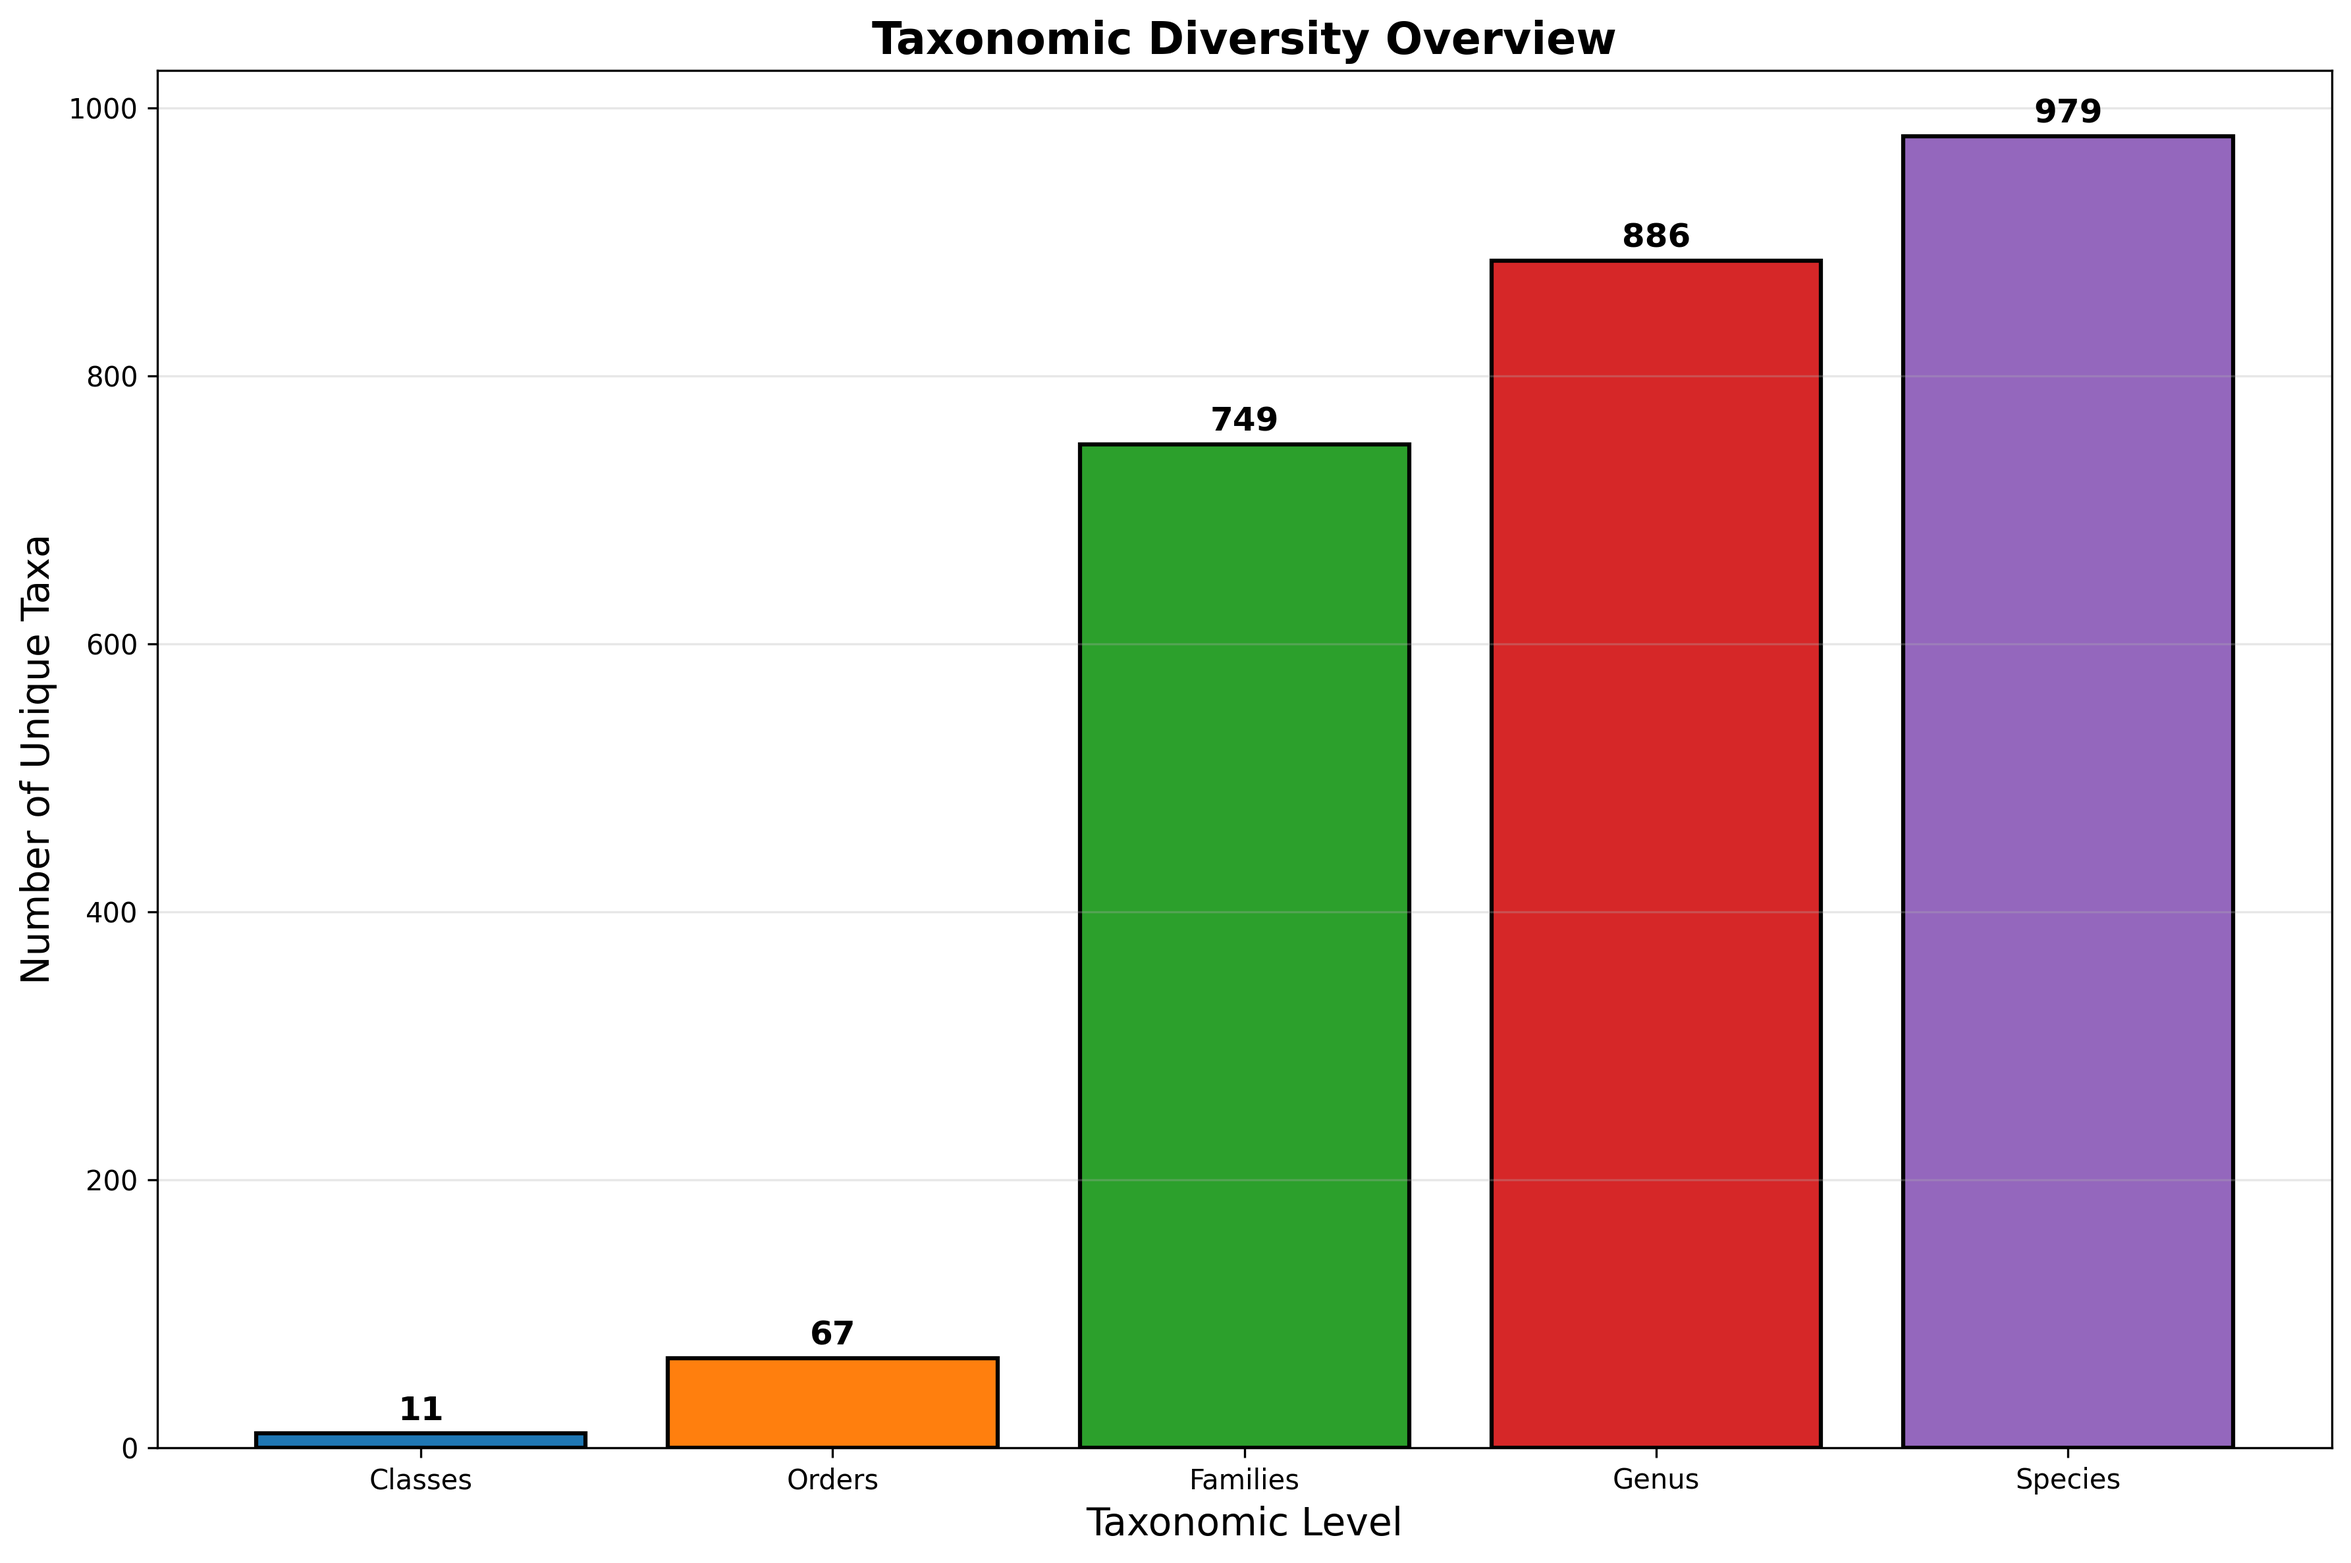
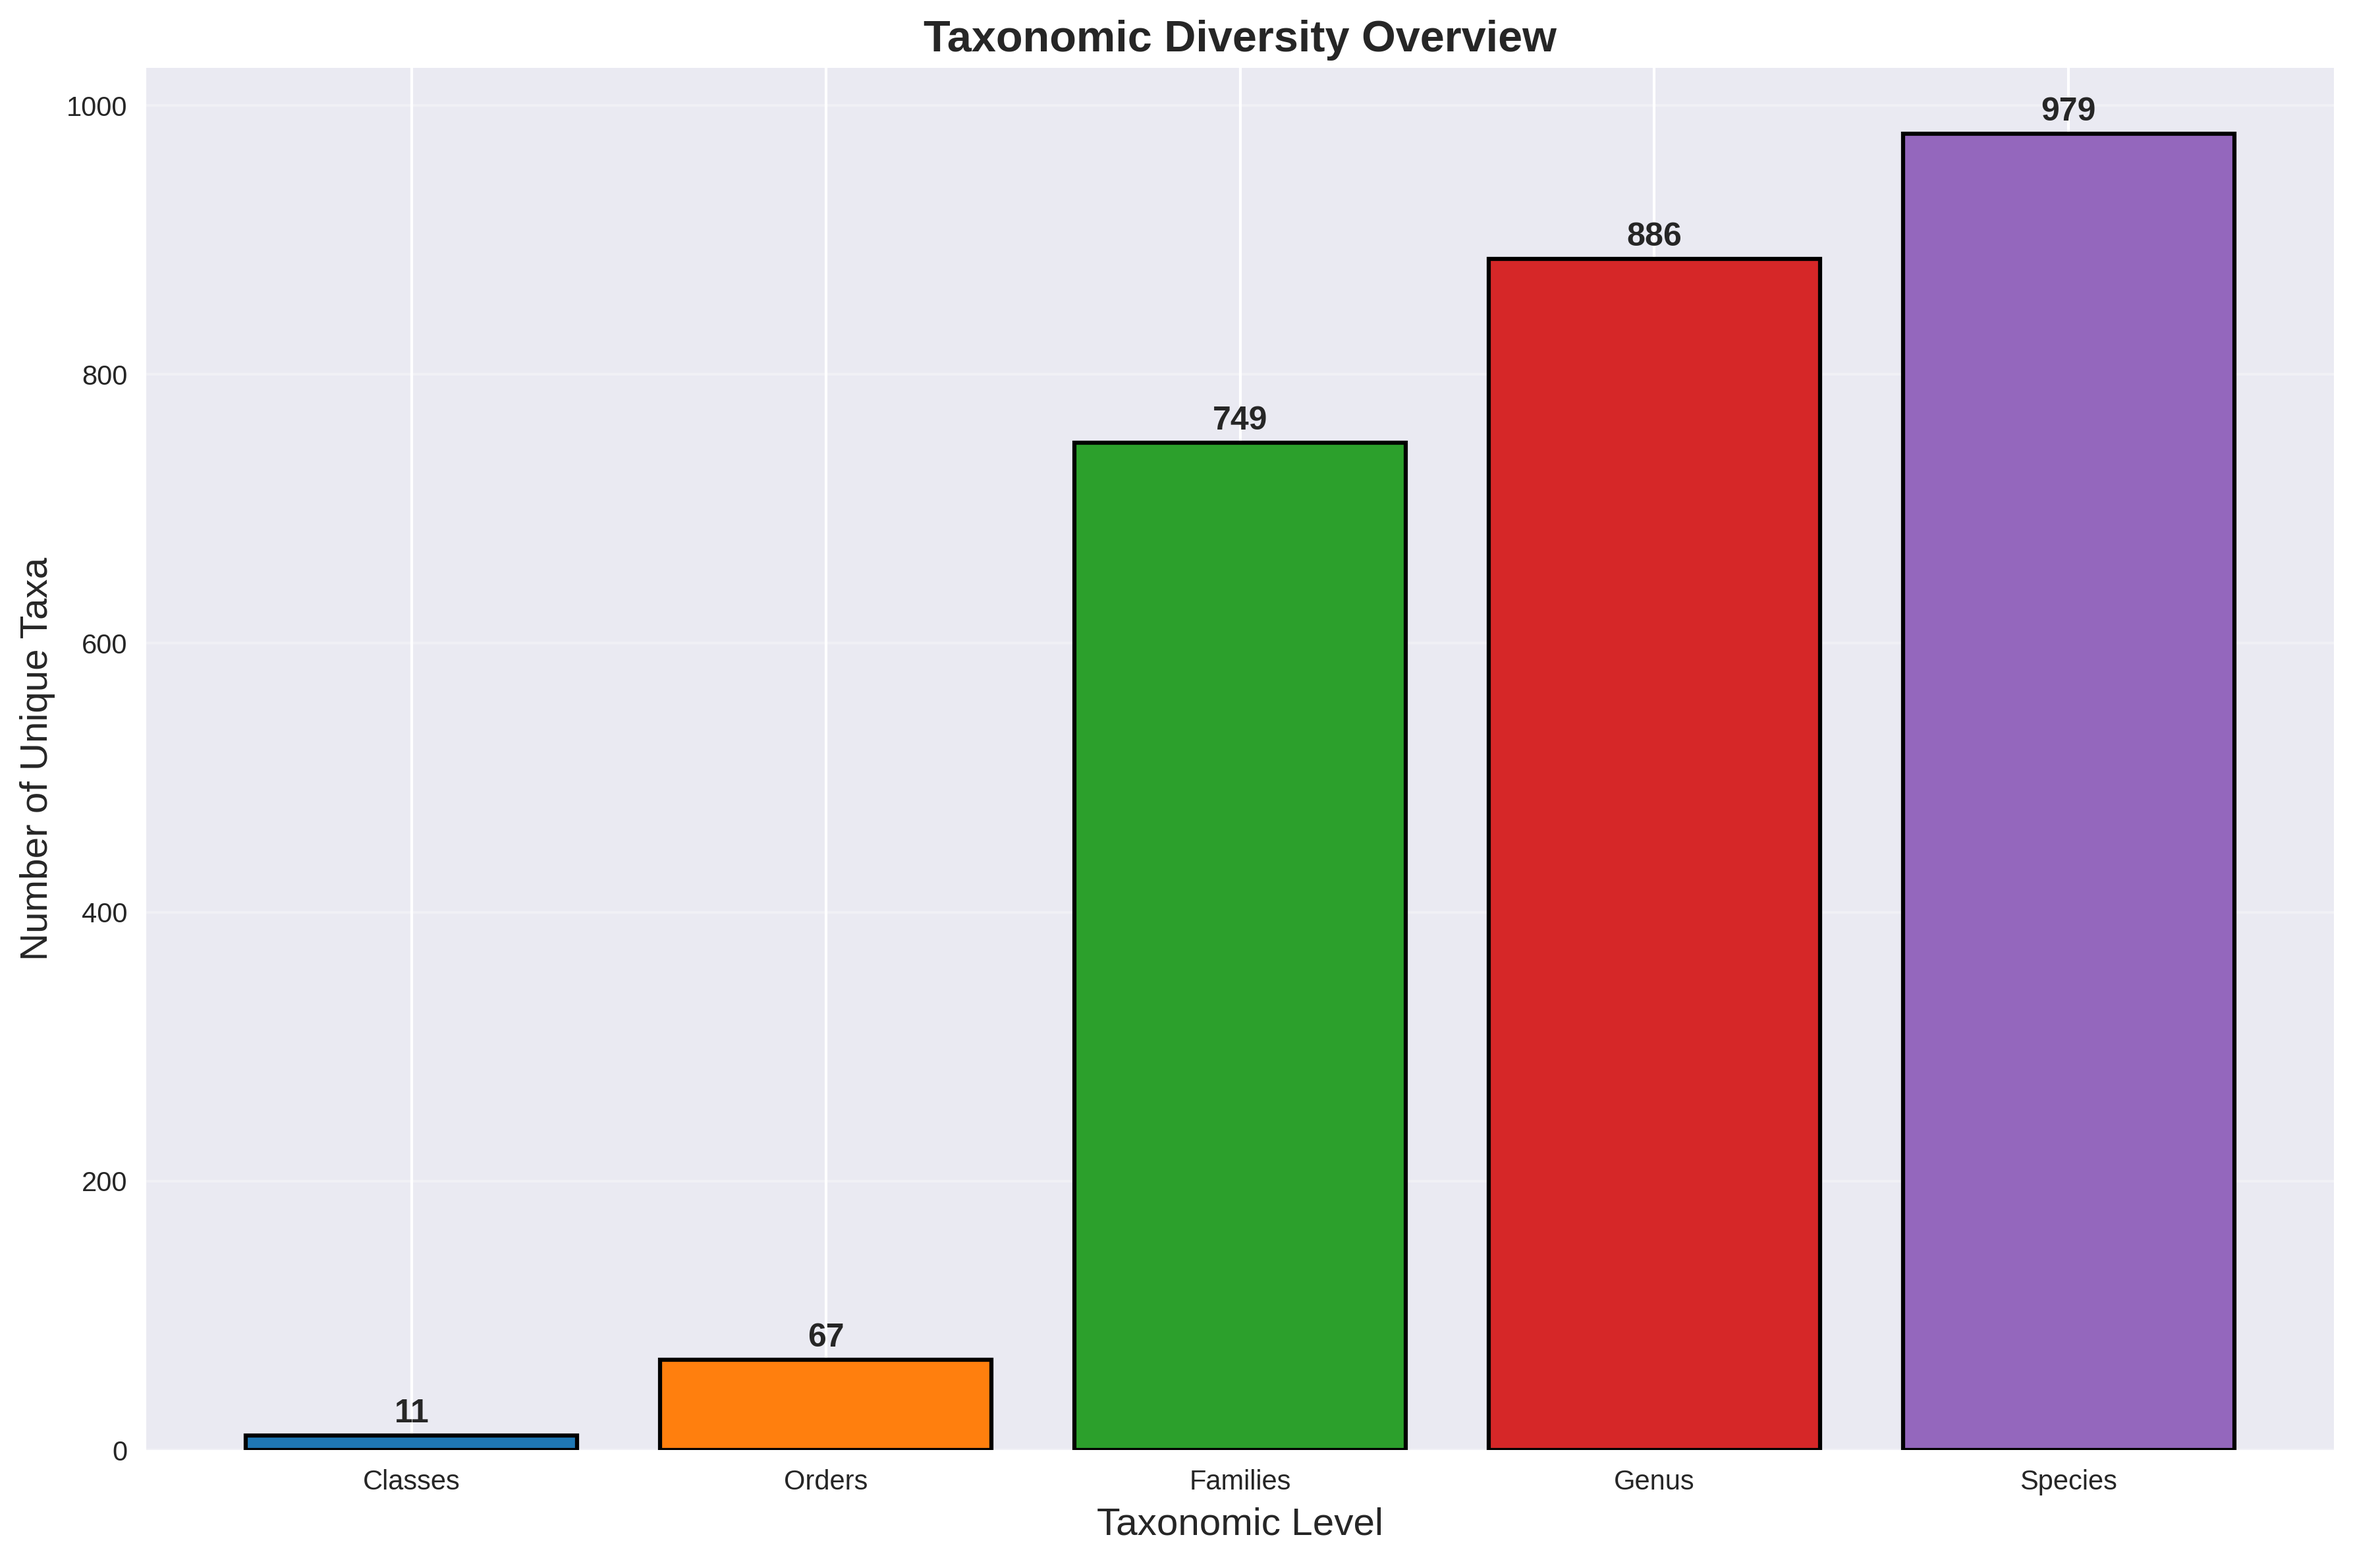
Updated scripts

diff --git a/stats/get_dataset_stats.py b/stats/get_dataset_stats.py
@@ -129,8 +129,15 @@ def generate_histograms(clean_df, stats_folder='stats'):
         stats_folder (str): Folder to save histogram files
     """
     # Set style for better looking plots
-    plt.style.use('default')
-    sns.set_palette("husl")
+    plt.style.use('seaborn-v0_8')
+    
+    # Define consistent color palette
+    colors = {
+        'class': '#2E86AB',      # Deep blue
+        'order': '#A23B72',      # Deep magenta
+        'family': '#F18F01',     # Orange
+        'stats_box': '#F5F5DC',  # Beige for stats boxes
+    }
     
     # Create stats folder if it doesn't exist
     os.makedirs(stats_folder, exist_ok=True)
@@ -139,7 +146,7 @@ def generate_histograms(clean_df, stats_folder='stats'):
     plt.figure(figsize=(12, 8))
     class_counts = clean_df['class'].value_counts()
     
-    class_counts.plot(kind='bar', color='skyblue', edgecolor='black')
+    ax = class_counts.plot(kind='bar', color=colors['class'], edgecolor='white', linewidth=0.8, alpha=0.8)
     
     # Calculate statistics for legend
     class_mean = class_counts.mean()
@@ -147,20 +154,24 @@ def generate_histograms(clean_df, stats_folder='stats'):
     class_min = class_counts.min()
     class_max = class_counts.max()
     
-    plt.title(f'Distribution by Class\n({len(class_counts)} unique classes)', fontsize=14, fontweight='bold')
-    plt.xlabel('Class', fontsize=12)
-    plt.ylabel('Number of Images', fontsize=12)
-    plt.xticks(rotation=45, ha='right')
-    plt.grid(axis='y', alpha=0.3)
+    plt.title(f'Distribution by Class\n({len(class_counts)} unique classes)', 
+              fontsize=16, fontweight='bold', pad=20)
+    plt.xlabel('Class', fontsize=13, fontweight='bold')
+    plt.ylabel('Number of Images', fontsize=13, fontweight='bold')
+    plt.xticks(rotation=45, ha='right', fontsize=11)
+    plt.yticks(fontsize=11)
+    plt.grid(axis='y', alpha=0.3, linestyle='--')
     
     # Add statistical info as text box
     stats_text = f'Mean: {class_mean:.1f}\nStd: {class_std:.1f}\nMin: {class_min}\nMax: {class_max}'
-    plt.text(0.98, 0.98, stats_text, transform=plt.gca().transAxes, fontsize=10,
-             verticalalignment='top', horizontalalignment='right', bbox=dict(boxstyle='round', facecolor='wheat', alpha=0.8))
+    plt.text(0.98, 0.98, stats_text, transform=plt.gca().transAxes, fontsize=14,
+             verticalalignment='top', horizontalalignment='right', 
+             bbox=dict(boxstyle='round,pad=0.5', facecolor='lightgray', alpha=0.9, edgecolor='gray'))
     
-    # Add value labels on bars
+    # Add value labels on bars with better styling
     for i, v in enumerate(class_counts.values):
-        plt.text(i, v + max(class_counts.values) * 0.01, str(v), ha='center', fontweight='bold')
+        plt.text(i, v + max(class_counts.values) * 0.01, f'{v:,}', 
+                ha='center', va='bottom', fontweight='bold', fontsize=10)
     
     plt.tight_layout()
     plt.savefig(os.path.join(stats_folder, 'class_distribution.png'), dpi=300, bbox_inches='tight')
@@ -170,7 +181,7 @@ def generate_histograms(clean_df, stats_folder='stats'):
     plt.figure(figsize=(20, 12))
     order_counts = clean_df['order'].value_counts()
     
-    order_counts.plot(kind='bar', color='lightcoral', edgecolor='black')
+    ax = order_counts.plot(kind='bar', color=colors['order'], edgecolor='white', linewidth=0.8, alpha=0.8)
     
     # Calculate statistics for legend
     order_mean = order_counts.mean()
@@ -178,22 +189,26 @@ def generate_histograms(clean_df, stats_folder='stats'):
     order_min = order_counts.min()
     order_max = order_counts.max()
     
-    plt.title(f'Complete Orders Distribution\n({clean_df["order"].nunique()} unique orders)', fontsize=16, fontweight='bold')
-    plt.xlabel('Order', fontsize=14)
-    plt.ylabel('Number of Images', fontsize=14)
-    plt.xticks(rotation=45, ha='right', fontsize=8)
-    plt.grid(axis='y', alpha=0.3)
+    plt.title(f'Complete Orders Distribution\n({clean_df["order"].nunique()} unique orders)', 
+              fontsize=18, fontweight='bold', pad=20)
+    plt.xlabel('Order', fontsize=15, fontweight='bold')
+    plt.ylabel('Number of Images', fontsize=15, fontweight='bold')
+    plt.xticks(rotation=45, ha='right', fontsize=9)
+    plt.yticks(fontsize=12)
+    plt.grid(axis='y', alpha=0.3, linestyle='--')
     
     # Add statistical info as text box
     stats_text = f'Mean: {order_mean:.1f}\nStd: {order_std:.1f}\nMin: {order_min}\nMax: {order_max}'
-    plt.text(0.98, 0.98, stats_text, transform=plt.gca().transAxes, fontsize=12,
-             verticalalignment='top', horizontalalignment='right', bbox=dict(boxstyle='round', facecolor='wheat', alpha=0.8))
+    plt.text(0.98, 0.98, stats_text, transform=plt.gca().transAxes, fontsize=16,
+             verticalalignment='top', horizontalalignment='right', 
+             bbox=dict(boxstyle='round,pad=0.5', facecolor='lightgray', alpha=0.9, edgecolor='gray'))
     
     # Add value labels on bars (only for bars with significant height to avoid clutter)
     max_val = max(order_counts.values)
     for i, v in enumerate(order_counts.values):
         if v > max_val * 0.02:  # Only show labels for bars > 2% of max value
-            plt.text(i, v + max_val * 0.01, str(v), ha='center', fontsize=8, fontweight='bold')
+            plt.text(i, v + max_val * 0.01, f'{v:,}', 
+                    ha='center', va='bottom', fontweight='bold', fontsize=9)
     
     plt.tight_layout()
     plt.savefig(os.path.join(stats_folder, 'order_distribution.png'), dpi=300, bbox_inches='tight')
@@ -203,7 +218,7 @@ def generate_histograms(clean_df, stats_folder='stats'):
     plt.figure(figsize=(25, 15))
     family_counts = clean_df['family'].value_counts()
     
-    family_counts.plot(kind='bar', color='lightgreen', edgecolor='black')
+    ax = family_counts.plot(kind='bar', color=colors['family'], edgecolor='white', linewidth=0.5, alpha=0.8)
     
     # Calculate statistics for legend
     family_mean = family_counts.mean()
@@ -211,16 +226,19 @@ def generate_histograms(clean_df, stats_folder='stats'):
     family_min = family_counts.min()
     family_max = family_counts.max()
     
-    plt.title(f'Complete Families Distribution\n({clean_df["family"].nunique()} unique families)', fontsize=18, fontweight='bold')
-    plt.xlabel('Families (ordered by frequency)', fontsize=16)
-    plt.ylabel('Number of Images', fontsize=16)
+    plt.title(f'Complete Families Distribution\n({clean_df["family"].nunique()} unique families)', 
+              fontsize=20, fontweight='bold', pad=25)
+    plt.xlabel('Families (ordered by frequency)', fontsize=17, fontweight='bold')
+    plt.ylabel('Number of Images', fontsize=17, fontweight='bold')
     plt.xticks([])  # Remove x-axis labels since there are too many families
-    plt.grid(axis='y', alpha=0.3)
+    plt.yticks(fontsize=14)
+    plt.grid(axis='y', alpha=0.3, linestyle='--')
     
     # Add statistical info as text box
     stats_text = f'Mean: {family_mean:.1f}\nStd: {family_std:.1f}\nMin: {family_min}\nMax: {family_max}'
-    plt.text(0.98, 0.98, stats_text, transform=plt.gca().transAxes, fontsize=14,
-             verticalalignment='top', horizontalalignment='right', bbox=dict(boxstyle='round', facecolor='wheat', alpha=0.8))
+    plt.text(0.98, 0.98, stats_text, transform=plt.gca().transAxes, fontsize=18,
+             verticalalignment='top', horizontalalignment='right', 
+             bbox=dict(boxstyle='round,pad=0.5', facecolor='lightgray', alpha=0.9, edgecolor='gray'))
     
     plt.tight_layout()
     plt.savefig(os.path.join(stats_folder, 'family_distribution.png'), dpi=300, bbox_inches='tight')
